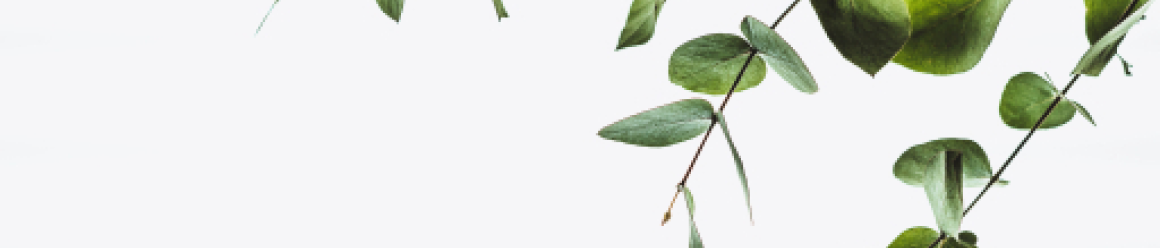
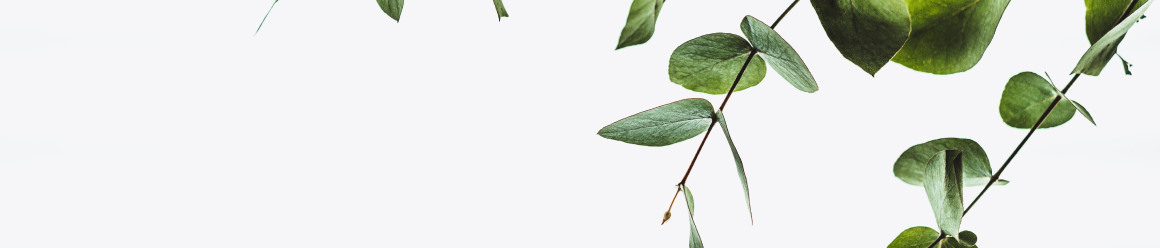
destop view bugs fixed

diff --git a/css/styles.css b/css/styles.css
@@ -47,6 +47,20 @@ input {
    width: 300px;
 }
 
+.free-image-1 {
+   position: absolute;
+   z-index: -1;
+   top: -12.75rem;
+   left: -8.8%;
+}
+
+.free-image-2 {
+   position: absolute;
+   z-index: -1;
+   top: -5rem;
+   right: -8.8%;
+}
+
 .container {
    width: 85%;
    margin: 0 auto;
@@ -80,10 +94,18 @@ input {
    text-align: center;
 }
 
+#offer img, #me img, #about img, #contact img, #shop .grid-box img, #gallery .grid-box img, #clients img{
+   width: 100%;
+}
+
+.grid-box .grid-item {
+   min-width: 0;
+}
+
 #hero {
    background-image: url(../images/hero-image.png);
    background-size: cover;
-   background-position: top;
+   background-position: top left;
    background-repeat: no-repeat;
    height: 95vh;
    max-height: 900px;
@@ -110,10 +132,14 @@ input {
    font-size: 1.25rem;
 }
 
+#hero .container {
+   height: 100%;
+}
+
 #hero #heading {
    display: flex;
    align-items: center;
-   padding: 6rem 0;
+   height: 60%;
 }
 
 #about {
@@ -167,6 +193,7 @@ input {
 
 #gallery {
    margin: 7rem 0;
+   position: relative;
 }
 
 #gallery h2 {
@@ -183,6 +210,7 @@ input {
 
 #shop {
    margin: 7rem 0;
+   position: relative;
 }
 
 #shop h2 {
@@ -206,7 +234,8 @@ input {
 #offer .image {
    flex: 0.5;
    display: flex;
-   margin-top: auto;
+   /* margin-top: auto; */
+   align-items: center;
 }
 
 #offer .text-box {
@@ -217,7 +246,11 @@ input {
    display: flex;
    flex-direction: column;
    justify-content: center;
-   padding: 0 6.5rem;
+   padding: 5rem 6.5rem;
+}
+
+#offer .text-box .text {
+   width: 75%;
 }
 
 #clients {
@@ -242,7 +275,7 @@ input {
 }
 
 #clients .grid-box .grid-item p {
-   width: 70%;
+   width: 80%;
    margin: 0 auto;
    line-height: 1.5rem;
 }
@@ -250,6 +283,7 @@ input {
 #contact {
    background-image: url(../images/contact-box.png);
    margin: 7rem 0;
+   padding-bottom: 3.5rem;
 }
 
 #contact .content {
@@ -262,7 +296,7 @@ input {
    flex-direction: column;
    justify-content: center;
    padding: 0 4.3125rem;
-   padding-top: 7.125rem;
+   padding-top: 10rem;
 }
 
 #contact .content .text-box .text p {
@@ -314,11 +348,12 @@ footer .content {
 }
 
 footer .content .image {
-   flex: 0.4;
+   flex: 0.35;
+   display: flex;
 }
 
 footer .content .text-grid {
-   flex: 0.6;
+   flex: 0.65;
    display: grid;
    grid-template-columns: repeat(3, 1fr);
 }
@@ -332,12 +367,18 @@ footer .content .text-grid .text h3 {
 }
 
 footer .content .text-grid .text .social img {
-   margin-right: 1.75rem;
+   margin-right: 1.5rem;
+   margin-bottom: 1rem;
 }
 
 
+@media only screen and (max-width: 960px) {}
 
-@media only screen and (max-width: 500px) {
+
+@media only screen and (max-width: 720px) {}
+
+
+@media only screen and (max-width: 540px) {
 
    body {
       width: 100vw;
@@ -398,10 +439,6 @@ footer .content .text-grid .text .social img {
       width: 100%;
       padding: 3.1875rem 0;
       text-align: center;
-   }
-
-   #offer img, #me img, #about img, #contact img,#shop img, #gallery img, #clients img{
-      width: 100%;
    }
 
    input {

diff --git a/index.html b/index.html
@@ -74,6 +74,8 @@
 
       <section id="gallery">
 
+         <img class="free-image-1" src="images/free-image.png" alt="">
+
          <h2>Gallery</h2>
 
          <div class="grid-box">
@@ -120,6 +122,8 @@
       </section>
 
       <section id="shop">
+
+         <img class="free-image-2" src="images/free-image-2.png" alt="">
 
          <h2>Shop</h2>
 
